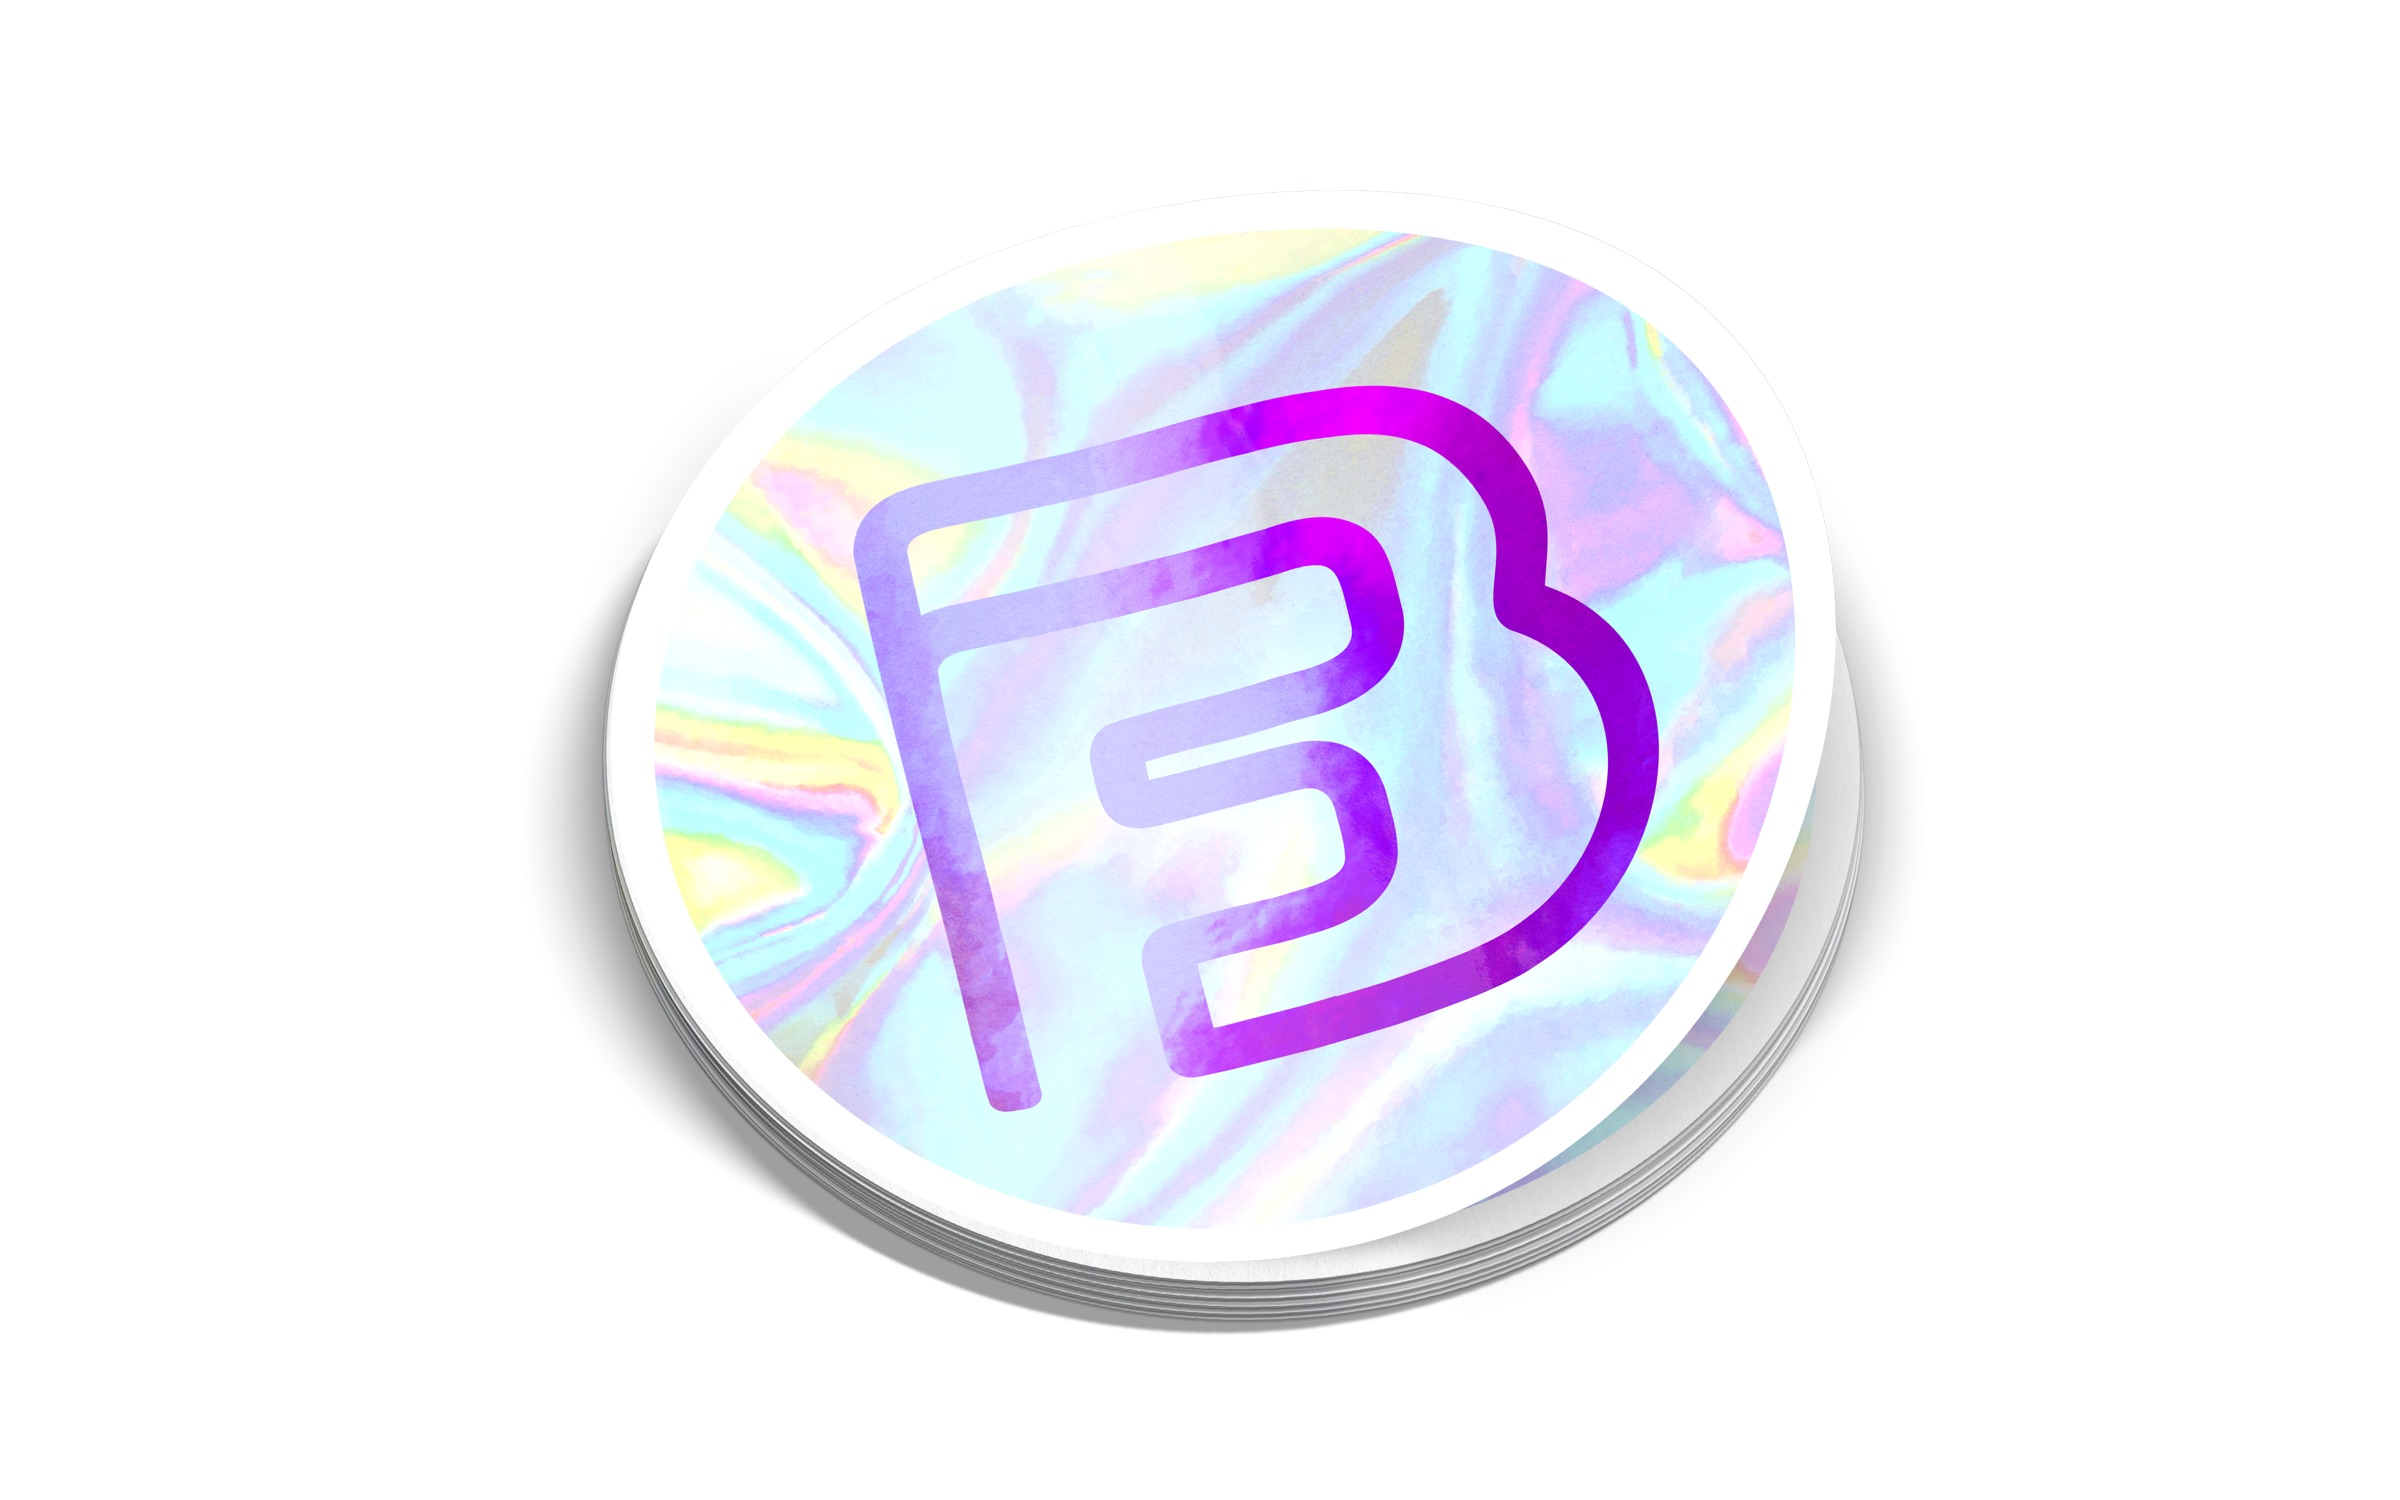
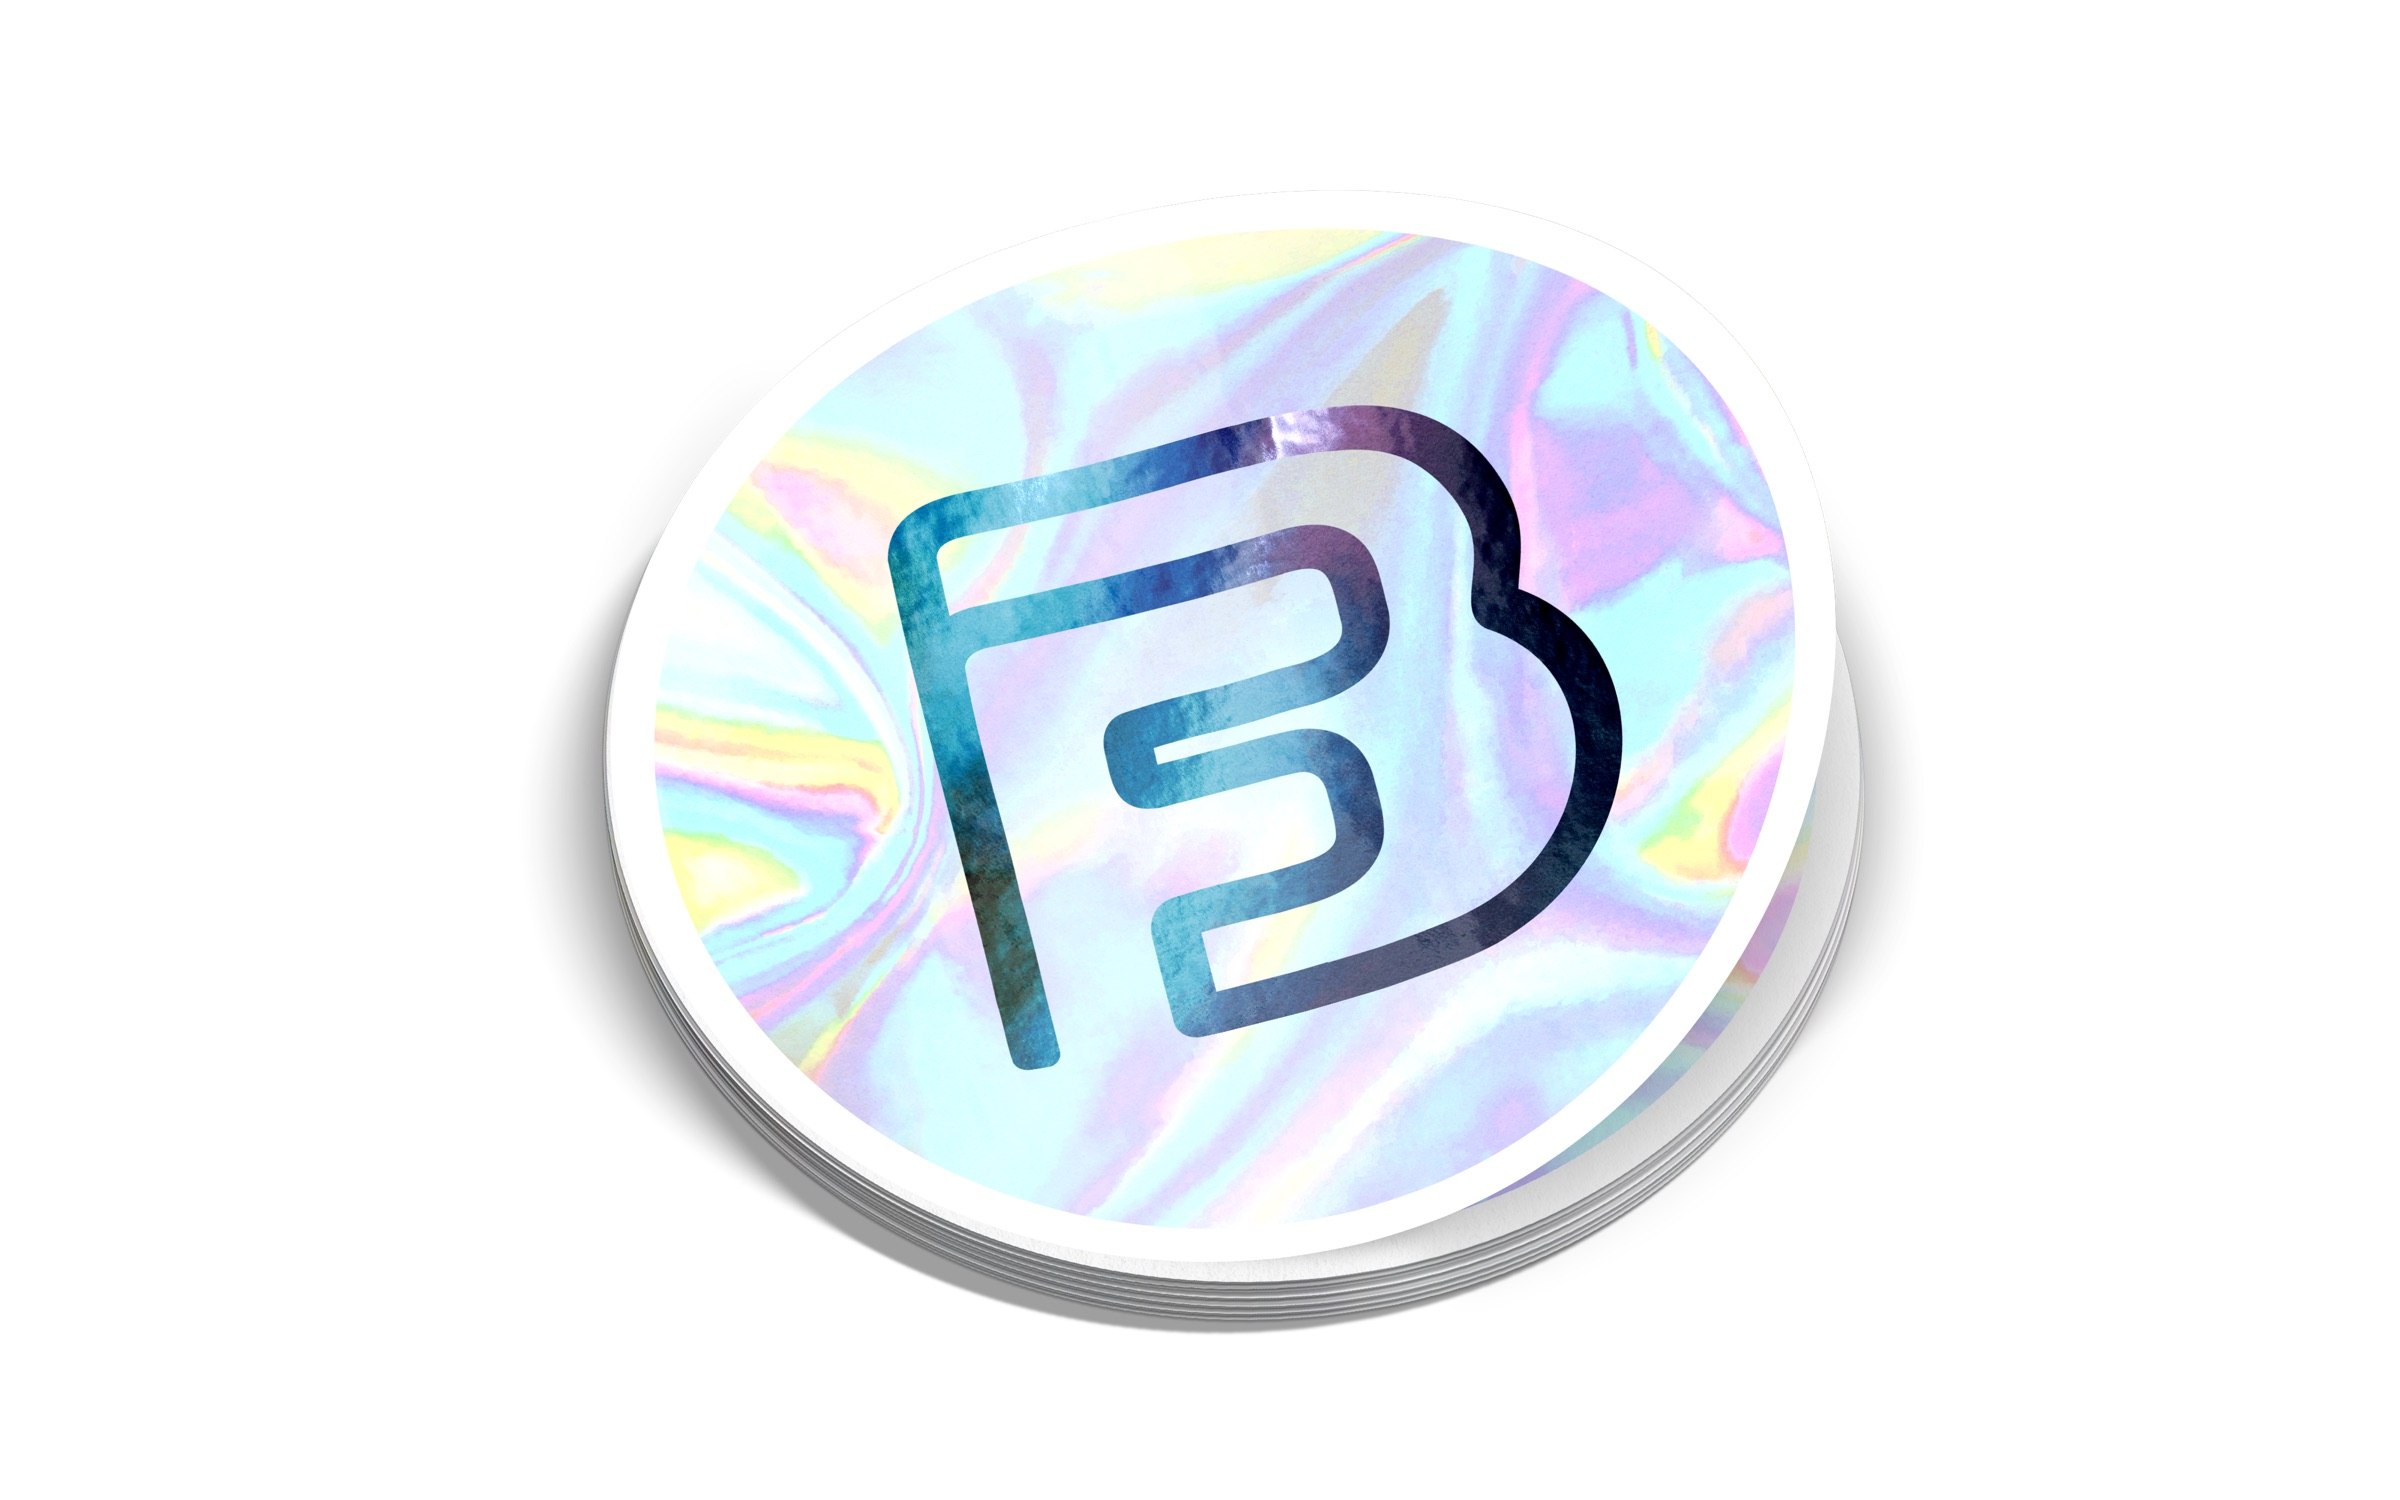
Brand identity: sticker stack mockup re-exported with the ink and teal mark

Changed region(s): [[0.3438, 0.2453, 0.7188, 0.736]]

diff --git a/brand-identity/index.html b/brand-identity/index.html
@@ -297,7 +297,7 @@ body { padding-top: var(--pad); }
         <div class="deck-slide slide-split">
           <div class="slide-head"><span class="slide-num">03</span> Applications <span class="slide-head-sub">Sticker</span></div>
           <div class="slide-exec"><p class="slide-body">Bonus sample.</p></div>
-          <div class="slide-img slide-img-lead"><img src="../_assets/mockups/sticker.jpg" alt=""></div>
+          <div class="slide-img slide-img-lead"><img src="../_assets/mockups/sticker.jpg?v=2" alt=""></div>
         </div>
         <div class="deck-slide slide-split">
           <div class="slide-head"><span class="slide-num">03</span> Applications <span class="slide-head-sub">Stamp</span></div>
